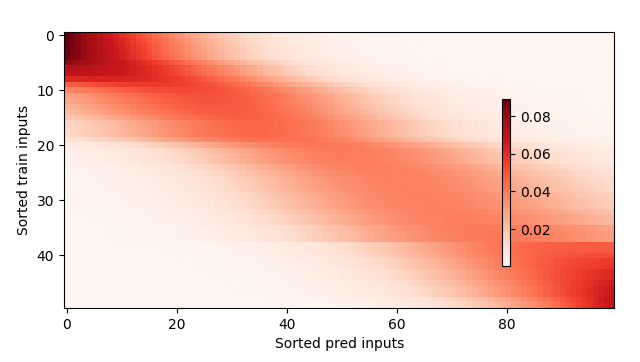
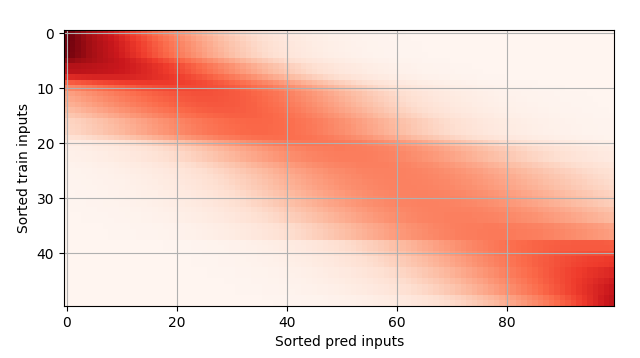
Param pooling

diff --git a/docs/deep_learning/attention_mechanism.html b/docs/deep_learning/attention_mechanism.html
@@ -389,7 +389,7 @@ y_hat = torch.matmul(attention_weights, torch.tensor(y_train))</code></pre>
                 \(f(x) = \sum_{i=1}^{n} \alpha(x, x_i)y_i = \sum_{i=1}^{n}softmax(-\frac{1}{2}((x - x_i)w)^2)y_i\)
             </div>
             <p>为了更有效地计算小批量数据的注意力，我们可以利用批量矩阵乘法。假设第一个小批量数据包括 \(n\) 个矩阵 \(X_1, ... , X_n\) ，矩阵的形状为 \(a \times b\) ，第二个小批量包含 \(n\) 个矩阵 \(Y_1, ... , Yn\) ，矩阵的形状为 \(b \times c\) 。</p>
-            <p>它们的批量矩阵乘法得到 \(n\) 个矩阵 \(\X_{1}Y_1, ... , X_{n}Y_n) ，形状为 \(a \times c\) 。因此，假定两个张量的形状分别为 \((n, a, b)\) 和 \((n, b, c)\) ，它们的批量矩阵乘法输出的形状为 \((n, a, c)\) ，具体计算过程在 <a href="https://github.com/artinte/machine-learning-series/blob/develop/deep_learning/09_transformer/1_attention/batch_array_dot.py">batch_array_dot.py</a> 文件里：</p>
+            <p>它们的批量矩阵乘法得到 \(n\) 个矩阵 \(X_{1}Y_1, ... , X_{n}Y_n\) ，形状为 \(a \times c\) 。因此，假定两个张量的形状分别为 \((n, a, b)\) 和 \((n, b, c)\) ，它们的批量矩阵乘法输出的形状为 \((n, a, c)\) ，具体计算过程在 <a href="https://github.com/artinte/machine-learning-series/blob/develop/deep_learning/09_transformer/1_attention/batch_array_dot.py">batch_array_dot.py</a> 文件里：</p>
             <pre><code>x = torch.ones((2, 1, 4))
 y = torch.ones((2, 4, 6))
 print(torch.bmm(x, y).shape)</code></pre>
@@ -404,6 +404,34 @@ print('Result shape:', result.shape)</code></pre>
             <pre><samp>Weights shape: torch.Size([2, 1, 10])
 Values shape: torch.Size([2, 10, 1])
 Result shape: torch.Size([2, 1, 1])</samp></pre>
+
+            <p>基于带参数的注意力汇聚，使用小批量矩阵乘法，定义带参数的 Nadaraya-Watson 核回归版本，代码在 <a href="https://github.com/artinte/machine-learning-series/blob/develop/deep_learning/09_transformer/1_attention/param_pooling.py">param_pooling.py</a> 文件里：</p>
+            <pre><code>class NWKernelRegression(torch.nn.Module):
+    def __init__(self, **kwargs):
+        super().__init__(**kwargs)
+        self.w = torch.nn.Parameter(torch.tensor([0.1]), requires_grad=True)
+
+    def forward(self, queries, keys, values):
+        queries = queries.repeat_interleave(keys.shape[1]).reshape((-1, keys.shape[1]))
+        self.attention_weights = torch.nn.functional.softmax(
+            -((queries - keys) * self.w) ** 2 / 2, dim=1)
+        return torch.bmm(self.attention_weights.unsqueeze(1),
+                            values.unsqueeze(-1)).reshape(-1)</code></pre>
+            <p>训练带参数的注意力汇聚模型时，使用平方损失和随机梯度下降：</p>
+            <pre><code>net = NWKernelRegression()
+loss = torch.nn.MSELoss(reduction='none')
+trainer = torch.optim.SGD(net.parameters(), lr=0.5)
+
+for epoch in range(5):
+    trainer.zero_grad()
+    l = loss(net(x_train, keys, values), y_train)
+    l.sum().backward()
+    trainer.step()
+    print(f'Epoch {epoch + 1}, loss {float(l.sum().item()):.6f}')</code></pre>
+            <p>如下所示，训练完带参数的注意力汇聚模型后可以发现：在尝试拟合带噪声的训练数据时，预测结果绘制的线不如之前非参数模型的平滑：</p>
+            <img src="res/param_pooling.png" alt="有参注意汇聚" width="600">
+            <p>为什么新的模型更不平滑呢？下面看一下输出结果的绘制图：与非参数的注意力汇聚模型相比，带参数的模型加入可学习的参数后，曲线在注意力权重较大的区域变得更不平滑：</p>
+            <img src="res/param_heatmap.png" alt="有参热力图" width="600">
         </main>
 
             <!-- 右侧小标题导航 -->

diff --git a/deep_learning/09_transformer/1_attention/param_pooling.py b/deep_learning/09_transformer/1_attention/param_pooling.py
@@ -1,0 +1,61 @@
+import numpy
+from matplotlib import pyplot
+import torch
+import show_heatmap
+
+class NWKernelRegression(torch.nn.Module):
+    def __init__(self, **kwargs):
+        super().__init__(**kwargs)
+        self.w = torch.nn.Parameter(torch.tensor([0.1]), requires_grad=True)
+
+    def forward(self, queries, keys, values):
+        queries = queries.repeat_interleave(keys.shape[1]).reshape((-1, keys.shape[1]))
+        self.attention_weights = torch.nn.functional.softmax(
+            -((queries - keys) * self.w) ** 2 / 2, dim=1)
+        return torch.bmm(self.attention_weights.unsqueeze(1),
+                         values.unsqueeze(-1)).reshape(-1)
+
+def func(x):
+    return 2 * numpy.sin(x) + x**0.8
+
+if __name__ == '__main__':
+    rng = numpy.random.default_rng(0)
+    n_train = 50
+    x_train = torch.tensor(numpy.sort(rng.random(n_train) * 5))
+    y_train = torch.tensor(func(x_train.numpy()) + rng.normal(0.0, 0.5, (n_train,)))
+    x = torch.tensor(numpy.arange(0, 5, 0.05))
+    y_truth = func(x.numpy())
+
+    x_tile = x_train.repeat((n_train, 1))
+    y_tile = y_train.repeat((n_train, 1))
+    keys = x_tile[(1 - torch.eye(n_train)).type(torch.bool)].reshape((n_train, -1))
+    values = y_tile[(1 - torch.eye(n_train)).type(torch.bool)].reshape((n_train, -1))
+
+    net = NWKernelRegression()
+    loss = torch.nn.MSELoss(reduction='none')
+    trainer = torch.optim.SGD(net.parameters(), lr=0.5)
+
+    for epoch in range(5):
+        trainer.zero_grad()
+        l = loss(net(x_train, keys, values), y_train)
+        l.sum().backward()
+        trainer.step()
+        print(f'Epoch {epoch + 1}, loss {float(l.sum().item()):.6f}')
+
+    n_pred = len(x)
+    keys = x_train.repeat((n_pred, 1))
+    values = y_train.repeat((n_pred, 1))
+    y_hat = net(x, keys, values).unsqueeze(1).detach()
+
+    pyplot.plot(x_train, y_train, 'o', alpha=0.5, label='Samples')
+    pyplot.plot(x, y_truth, label='Truth')
+    pyplot.plot(x, y_hat, label='Pred')
+    pyplot.grid(True)
+    pyplot.legend()
+    pyplot.subplots_adjust(left=0.08, right=0.92, top=0.96, bottom=0.06)
+    pyplot.show()
+
+    show_heatmap.show_heatmap(net.attention_weights.T.unsqueeze(0)
+                              .unsqueeze(0).detach().numpy(),
+                              'Sorted pred inputs',
+                              'Sorted train inputs')

diff --git a/deep_learning/09_transformer/1_attention/show_heatmap.py b/deep_learning/09_transformer/1_attention/show_heatmap.py
@@ -12,6 +12,7 @@ def show_heatmap(matrices, x_label = '', y_label = '', cmap='Reds'):
                 ax.set_xlabel(x_label)
             if col_idx == 0:
                 ax.set_ylabel(y_label)
-    fig.colorbar(pcm, ax=axes, shrink=0.6)
+    # fig.colorbar(pcm, ax=axes, shrink=0.6)
+    pyplot.grid()
     fig.subplots_adjust(left=0.1, right=0.96, top=0.96, bottom=0.1, wspace=0.2, hspace=0.2)
     pyplot.show()
